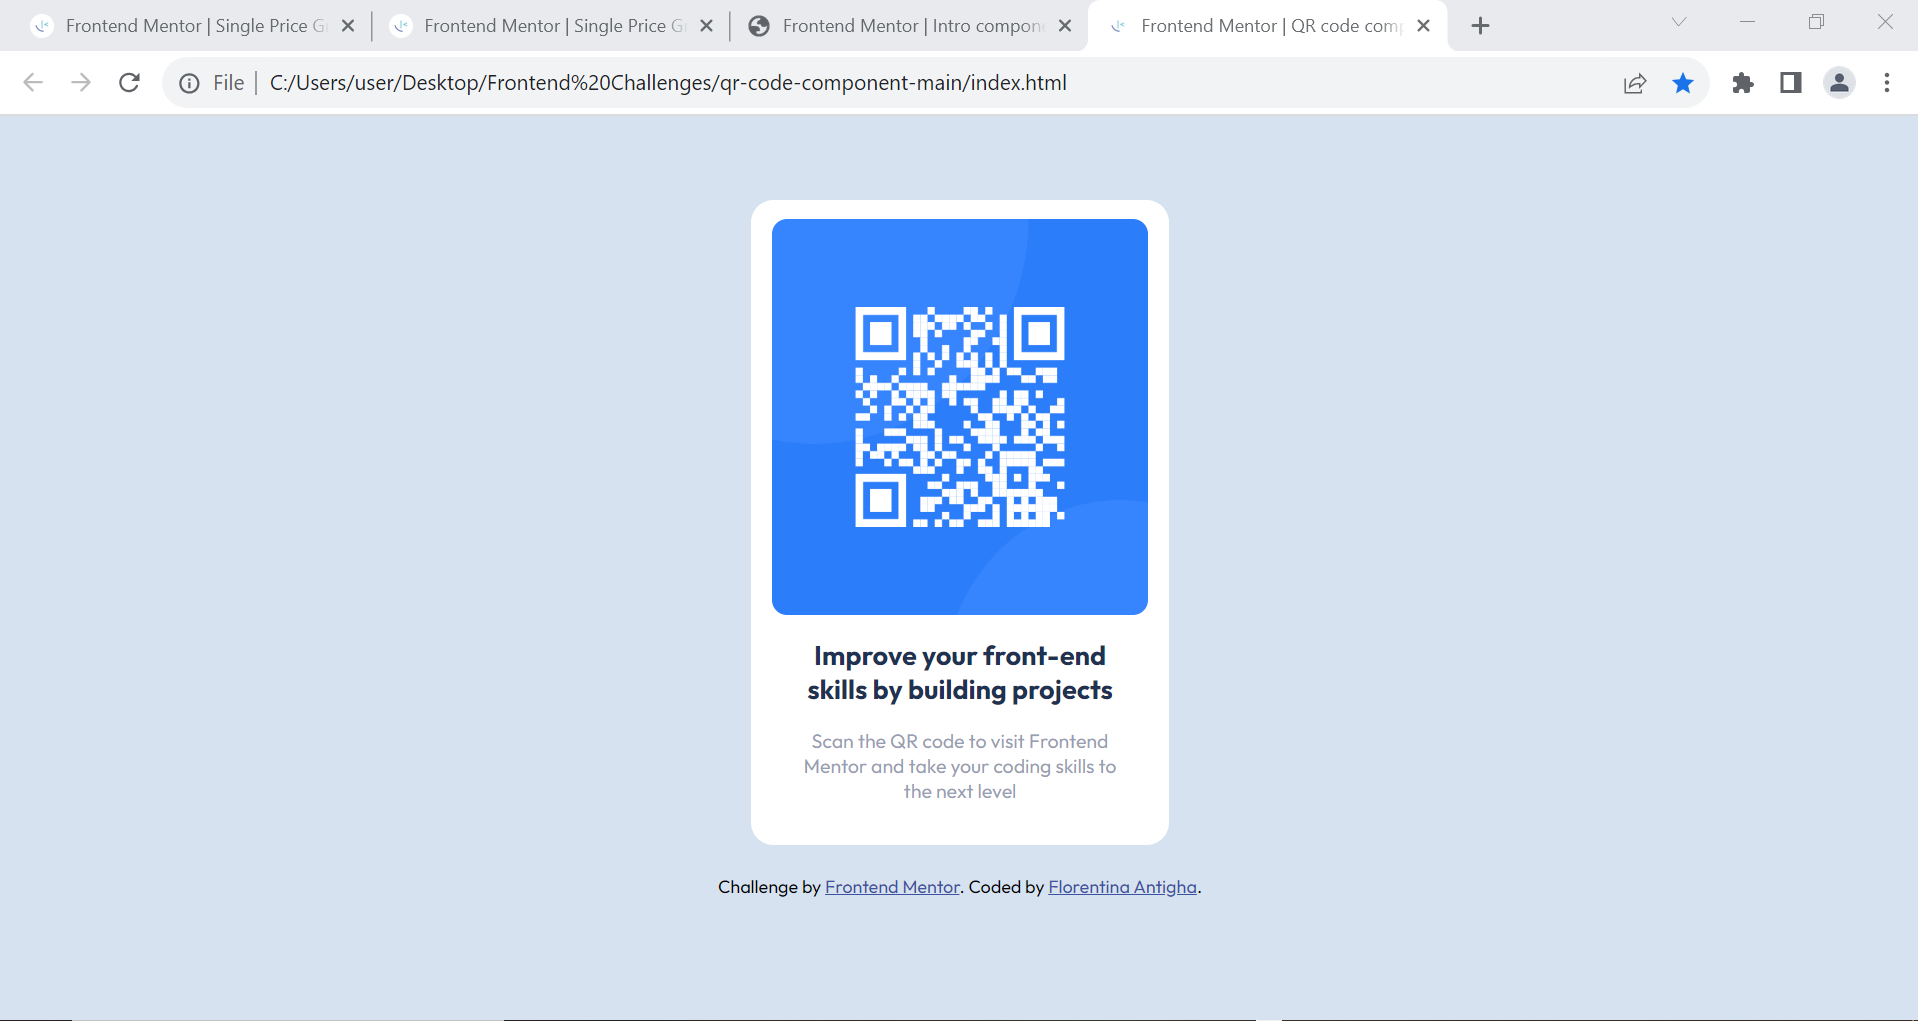
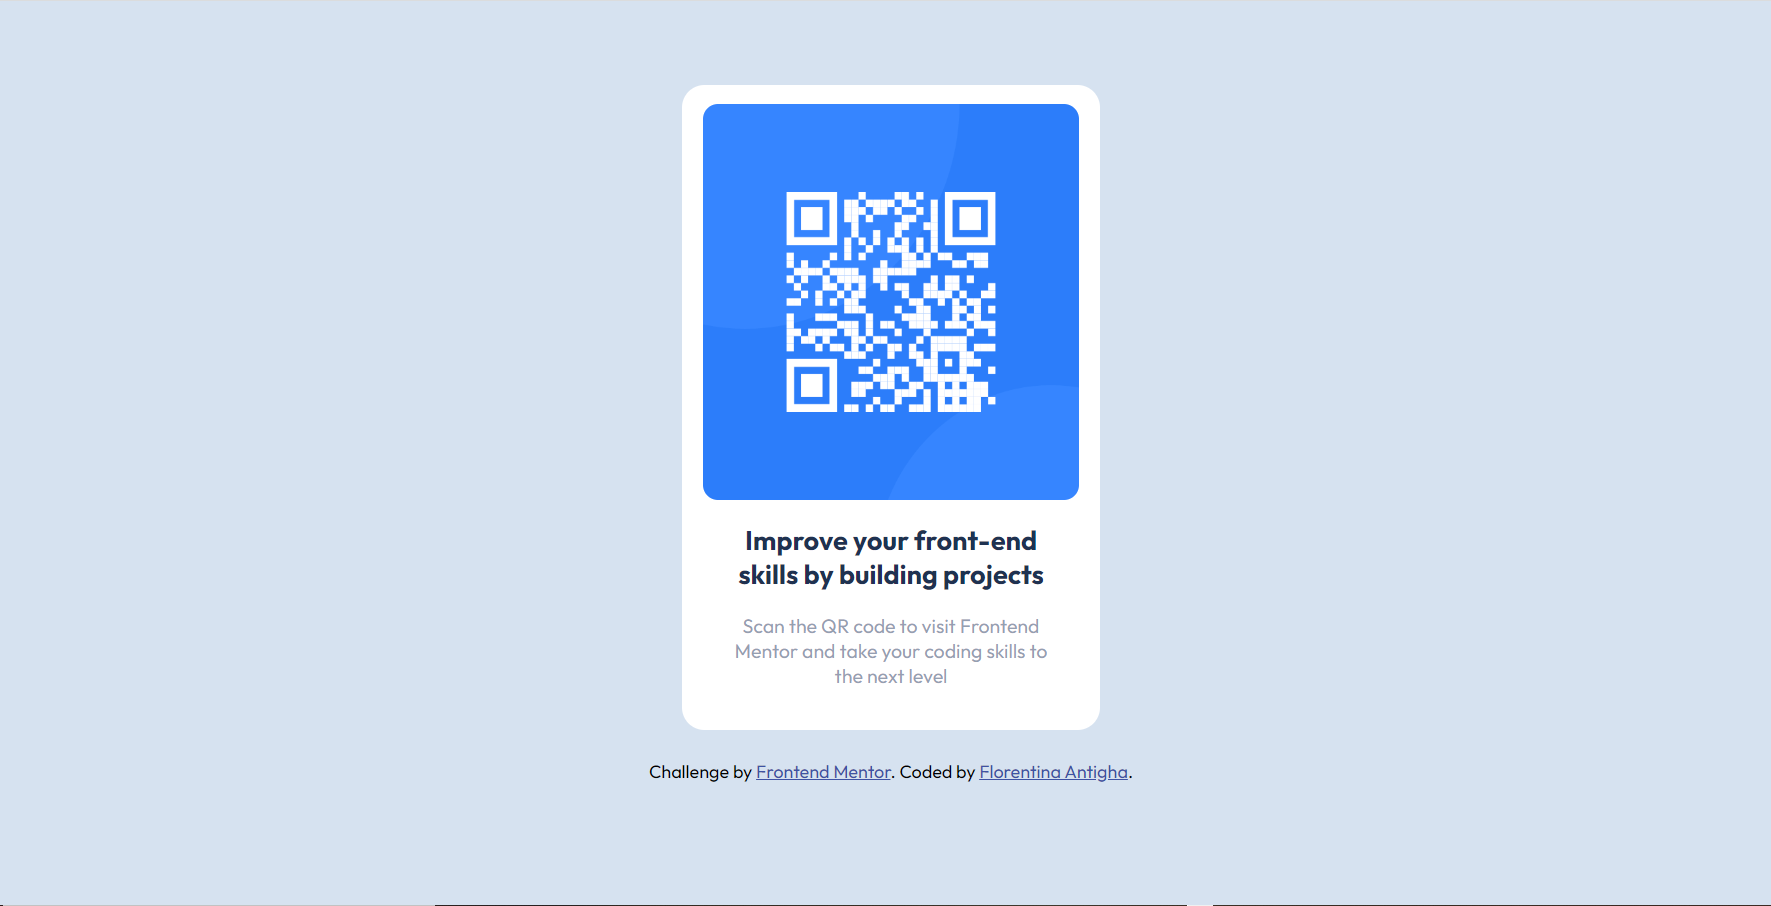
Completed the project

Changed region(s): [[0.0, 0.0, 1.0, 0.8962]]

diff --git a/index.html b/index.html
@@ -7,157 +7,8 @@
   <link rel="preconnect" href="https://fonts.googleapis.com">
   <link rel="preconnect" href="https://fonts.gstatic.com" crossorigin>
   <link href="https://fonts.googleapis.com/css2?family=Outfit:wght@400;700&display=swap" rel="stylesheet">
+  <link rel="stylesheet" href="styles.css">
   <title>Frontend Mentor | QR code component</title>
-
-  <style>
-    *{
-      box-sizing: border-box;
-      font-family: 'Outfit', sans-serif;
-    }
-    body {
-      background-color: hsl(212, 45%, 89%);
-      height: 95vh;
-      display: flex;
-      flex-direction: column;
-      justify-content: center;
-      align-items: center;
-    }
-    .container {
-      min-height: 70vh;
-      width: 22%;
-      display: flex;
-      flex-direction: column;
-      align-items: center;
-      padding: 13px 0px 0px 0px;
-      background-color: hsl(0, 0%, 100%);
-      border-radius: 15px;
-    }
-    .qrcode {
-      display: flex;
-      justify-content: center;
-    }
-    .qrcode img {
-      max-width: 95%;
-      max-height: 100%;
-      border-radius: 10px;
-    }
-    .info {
-      padding: 0px 20px 15px 20px;
-      text-align: center;
-    }
-    .info h2 {
-      color: hsl(218, 44%, 22%);
-      font-weight: 700;
-    }
-    .info p {
-      color: hsla(220, 15%, 55%, 0.8);
-      font-weight: 400;
-    }
-    h2 {
-      font-size: 20px;
-    }
-    p {
-      font-size: 13.5 px;
-    }
-    .attribution { 
-      font-size: 11px; 
-      text-align: center;
-      margin-top: 20px; 
-    }
-    .attribution a {
-      color: hsl(228, 45%, 44%); 
-    }
-    /* Media Queries */
-    @media (max-width: 1440px) { /*For Laptop Screen*/
-      .container {
-        min-height: 50vh;
-        width: 22%;
-      }
-      .info {
-        padding: 0px 25px 15px 25px; 
-      }
-      .attribution p { 
-        margin-top: 0px;
-        font-size: 12px; 
-     }
-      p {
-        font-size: 13px;
-      }
-      h2 {
-        font-size: 18px;
-      }
-    }
-    @media (max-width: 1024px) {
-      .container {
-        min-height: 50vh;
-        width: 25%;
-      }
-      .info {
-        padding: 0px 17px 15px 17px; 
-      }
-    }
-    @media (max-width: 768px) { /*For Tablet Screen*/
-      .container {
-        min-height: 40vh;
-        width: 35%;
-      }
-      .info {
-        padding: 0px 20px 15px 20px;
-      }
-      .attribution p { 
-        margin-top: 0px;
-        font-size: 11px; 
-     }
-      p {
-        font-size: 12px;
-      }
-      h2 {
-        font-size: 17px;
-      }
-    }
-    @media (max-width: 425px) { /*For Large Phone Screen*/
-      .container {
-        min-height: 60vh;
-        width: 50%;
-      }
-      .qrcode {
-        max-width: 100%;
-        height: 70%;
-      }
-      .info {
-        padding: 0px 23px 15px 23px;
-      }
-      p {
-        font-size: 10px;
-        color: rebeccapurple;
-      }
-      h2 {
-        font-size: 13px;
-      }
-      .attribution p { 
-        margin-top: 0px;
-        font-size: 11px; 
-     }
-    } 
-    @media (max-width:320px) { /*For Small Phone Screen*/
-      .container {
-        min-height: 60vh;
-        width: 90%;
-      }
-      .qrcode {
-        max-width: 100%;
-        height: 65%;
-      }
-      .info {
-        padding: 0px 27px 15px 27px;
-      }
-      .attribution p { 
-        margin-top: 0px;
-        font-size: 11px; 
-     }
-    }
-  </style>
-
 </head>
 <body>
 

diff --git a/styles.css b/styles.css
@@ -1,0 +1,146 @@
+*{
+    box-sizing: border-box;
+    font-family: 'Outfit', sans-serif;
+  }
+  body {
+    background-color: hsl(212, 45%, 89%);
+    height: 95vh;
+    display: flex;
+    flex-direction: column;
+    justify-content: center;
+    align-items: center;
+  }
+  .container {
+    min-height: 70vh;
+    width: 22%;
+    display: flex;
+    flex-direction: column;
+    align-items: center;
+    padding: 13px 0px 0px 0px;
+    background-color: hsl(0, 0%, 100%);
+    border-radius: 15px;
+  }
+  .qrcode {
+    display: flex;
+    justify-content: center;
+  }
+  .qrcode img {
+    max-width: 95%;
+    max-height: 100%;
+    border-radius: 10px;
+  }
+  .info {
+    padding: 0px 20px 15px 20px;
+    text-align: center;
+  }
+  .info h2 {
+    color: hsl(218, 44%, 22%);
+    font-weight: 700;
+  }
+  .info p {
+    color: hsla(220, 15%, 55%, 0.8);
+    font-weight: 400;
+  }
+  h2 {
+    font-size: 20px;
+  }
+  p {
+    font-size: 13.5 px;
+  }
+  .attribution { 
+    font-size: 11px; 
+    text-align: center;
+    margin-top: 20px; 
+  }
+  .attribution a {
+    color: hsl(228, 45%, 44%); 
+  }
+  /* Media Queries */
+  @media (max-width: 1440px) { /*For Laptop Screen*/
+    .container {
+      min-height: 50vh;
+      width: 22%;
+    }
+    .info {
+      padding: 0px 25px 15px 25px; 
+    }
+    .attribution p { 
+      margin-top: 0px;
+      font-size: 12px; 
+   }
+    p {
+      font-size: 13px;
+    }
+    h2 {
+      font-size: 18px;
+    }
+  }
+  @media (max-width: 1024px) {
+    .container {
+      min-height: 50vh;
+      width: 25%;
+    }
+    .info {
+      padding: 0px 17px 15px 17px; 
+    }
+  }
+  @media (max-width: 768px) { /*For Tablet Screen*/
+    .container {
+      min-height: 40vh;
+      width: 35%;
+    }
+    .info {
+      padding: 0px 20px 15px 20px;
+    }
+    .attribution p { 
+      margin-top: 0px;
+      font-size: 11px; 
+   }
+    p {
+      font-size: 12px;
+    }
+    h2 {
+      font-size: 17px;
+    }
+  }
+  @media (max-width: 425px) { /*For Large Phone Screen*/
+    .container {
+      min-height: 60vh;
+      width: 50%;
+    }
+    .qrcode {
+      max-width: 100%;
+      height: 70%;
+    }
+    .info {
+      padding: 0px 23px 15px 23px;
+    }
+    p {
+      font-size: 10px;
+      color: rebeccapurple;
+    }
+    h2 {
+      font-size: 13px;
+    }
+    .attribution p { 
+      margin-top: 0px;
+      font-size: 11px; 
+   }
+  } 
+  @media (max-width:320px) { /*For Small Phone Screen*/
+    .container {
+      min-height: 60vh;
+      width: 90%;
+    }
+    .qrcode {
+      max-width: 100%;
+      height: 65%;
+    }
+    .info {
+      padding: 0px 27px 15px 27px;
+    }
+    .attribution p { 
+      margin-top: 0px;
+      font-size: 11px; 
+   }
+  }
